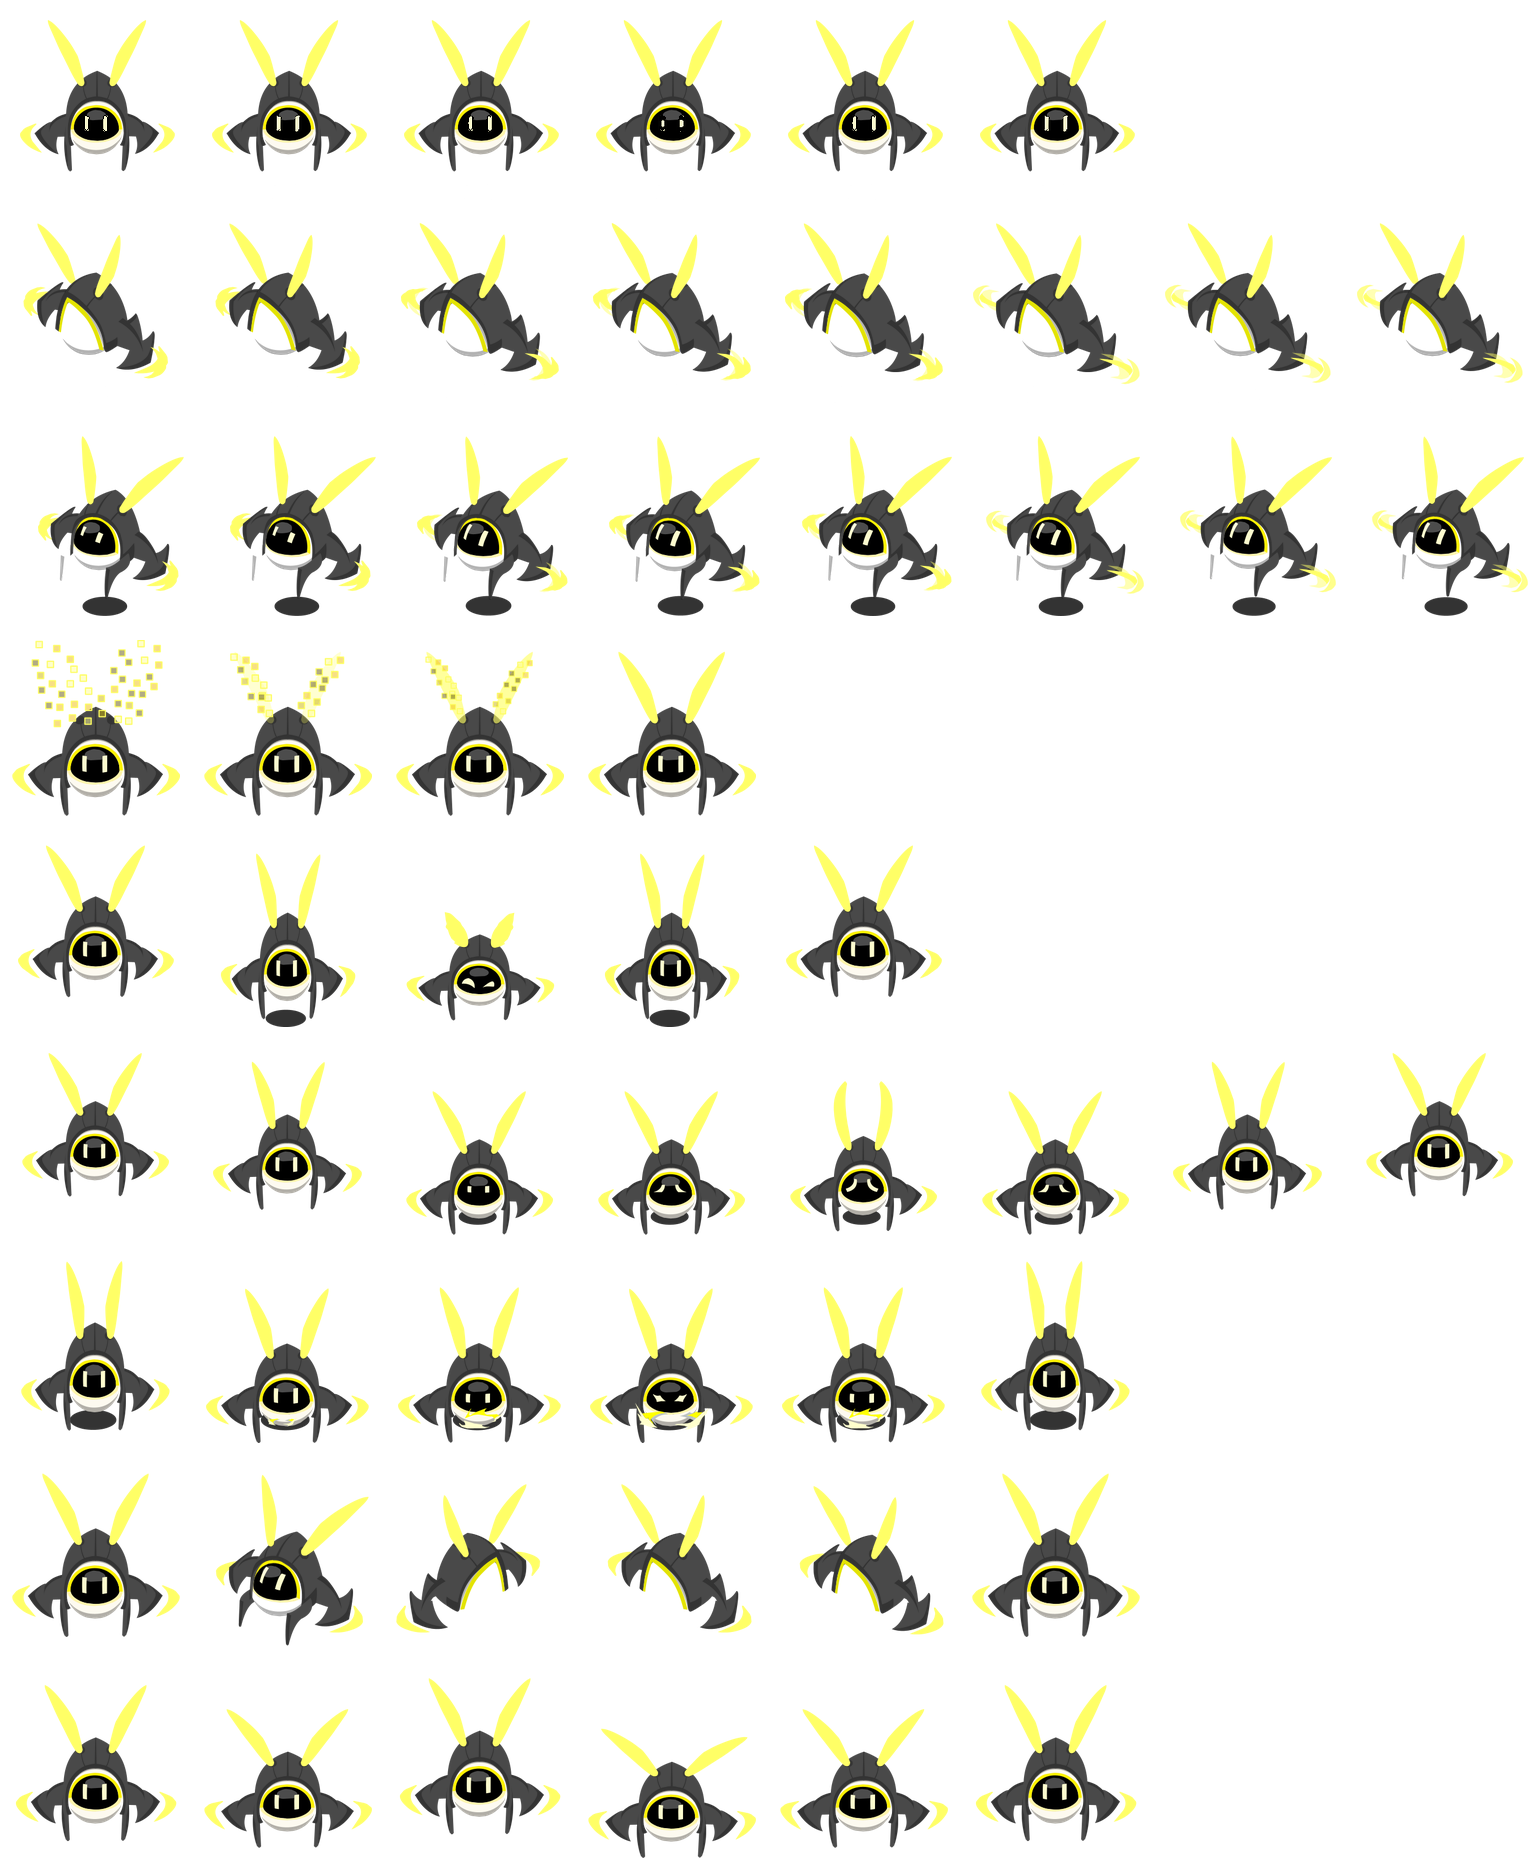
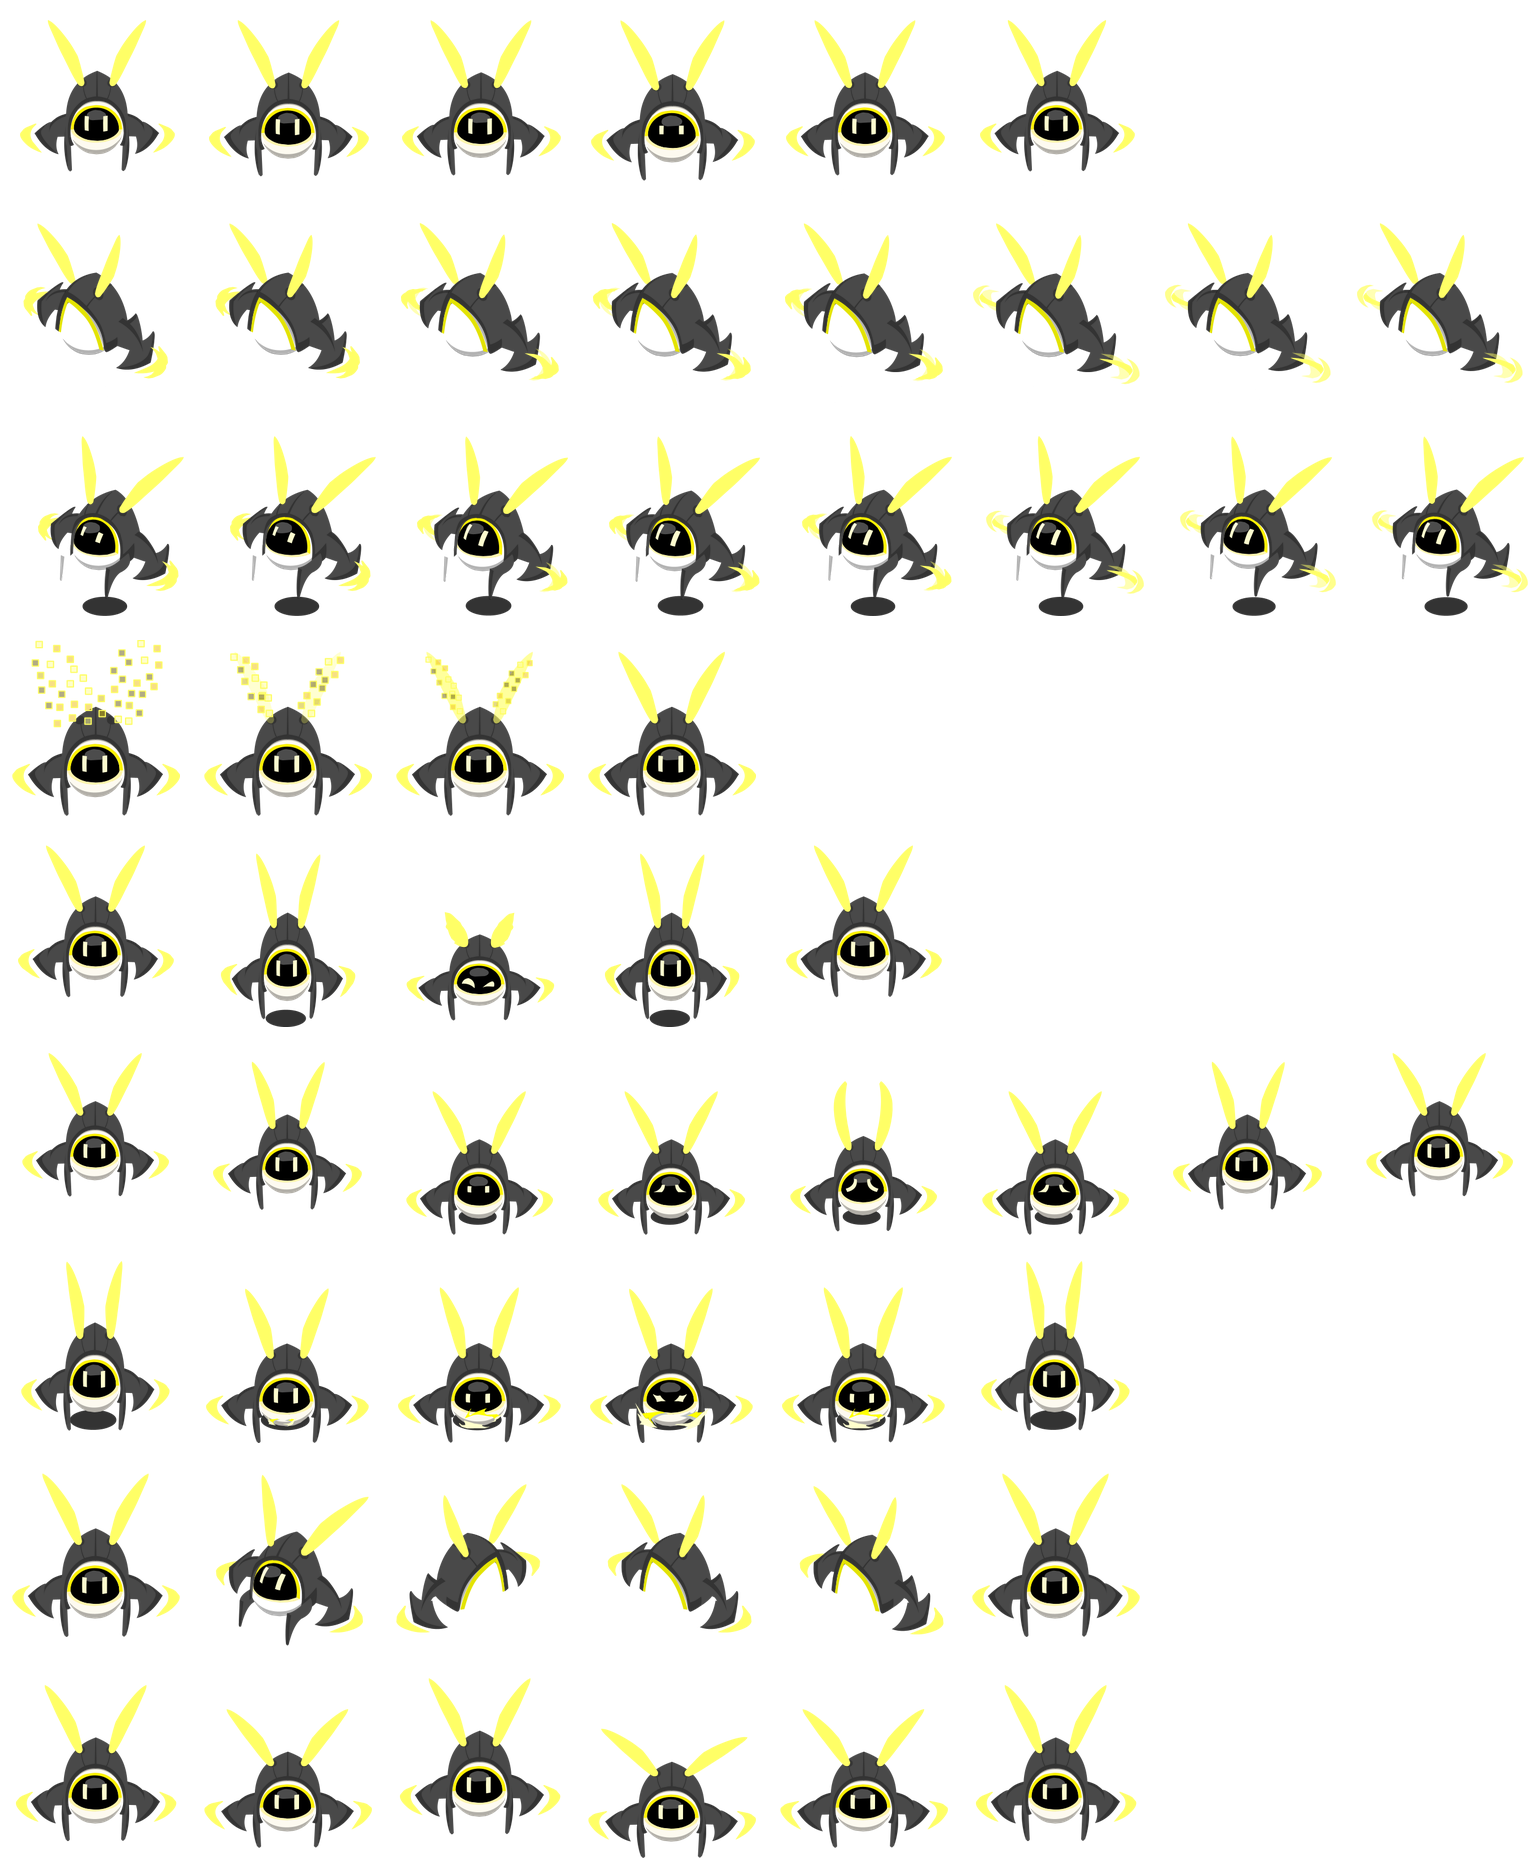
Restore native idle frames for every NoNo variant

Changed region(s): [[0.125, 0.0, 0.625, 0.0929]]

diff --git a/index.html b/index.html
@@ -25,4 +25,4 @@
     <section class="install" id="ram-install"><details><summary>安装说明</summary><div class="install-content"><ol><li><span>1</span><div><h3>解压宠物包</h3><p>得到一个含有 <code>pet.json</code> 和 <code>spritesheet.png</code> 的拉姆文件夹。</p></div></li><li><span>2</span><div><h3>放进 Codex 的 pets 文件夹</h3><p>macOS / Linux：<code>~/.codex/pets/</code><br>Windows：<code>%USERPROFILE%\.codex\pets\</code><br>若设置过 <code>CODEX_HOME</code>，请使用它下面的 <code>pets</code> 文件夹。</p></div></li><li><span>3</span><div><h3>在设置里选中它</h3><p>打开 Codex 的「设置 → Pets / 宠物」，刷新列表后选择拉姆。输入 <code>/pet</code> 唤出它。</p></div></li></ol><button class="copy-button" id="ram-copy-prompt">复制安装提示词</button><p class="install-note">也可以将下载的精灵图上传到支持「Upload pet」的宠物界面。<a href="https://learn.chatgpt.com/docs/pets" target="_blank" rel="noreferrer">官方说明 ↗</a></p></div></details></section>
 </div><div id="nono-panel" role="tabpanel" aria-labelledby="tab-nono" hidden><section class="workbench" aria-label="超能NoNo宠物预览"><div class="preview-panel" id="nono-preview-panel"><div class="preview-top"><span class="caps">安装效果预览</span><button id="nono-background" class="small-button" aria-label="切换深浅预览背景">◐ <span>深色背景</span></button></div><div class="pet-stage"><span class="pet-label" id="nono-pet-label">超能 NoNo</span><canvas id="nono-pet" width="576" height="624" role="img" aria-label="超能NoNo动画预览"></canvas></div><div class="preview-bottom"><span><i class="live-dot"></i><span id="nono-state-label">待机中</span></span><button id="nono-pause" class="small-button" aria-pressed="false">Ⅱ 暂停动画</button></div></div>
 <div class="controls nono-controls"><div class="section-heading"><h2>形态</h2></div><div class="forms nono-forms" role="group" aria-label="NoNo版本"><button class="form" data-form="nono-normal" aria-pressed="false"><strong>普通 NoNo</strong></button><button class="form active" data-form="nono" aria-pressed="true"><strong>超能 NoNo</strong></button><button class="form" data-form="nono-annual" aria-pressed="false"><strong>至尊 NoNo</strong></button></div><div class="divider"></div><div id="nono-colors-section"><div class="section-heading"><h2>颜色</h2></div><div class="colors" id="nono-colors" role="group" aria-label="NoNo颜色"></div><div class="divider"></div></div><div class="section-heading"><h2>动作</h2><a class="action-library-link" href="ram-library.html">查看原动作 ↗</a></div><div class="states" role="group" aria-label="预览动作"><button data-state="idle" class="selected" aria-pressed="true">待命</button><button data-state="waving" aria-pressed="false">开机</button><button data-state="jumping" aria-pressed="false">惊讶</button><button data-state="running" aria-pressed="false">玩魔方</button><button data-state="waiting" aria-pressed="false">充电</button><button data-state="review" aria-pressed="false">开心</button><button data-state="running-left" aria-pressed="false">向左</button><button data-state="running-right" aria-pressed="false">向右</button><button data-state="failed" aria-pressed="false">悲哀</button></div><p class="hint" style="margin-top:12px">动作播放三遍后回到待机，点击动作可重播。</p><div class="download-area"><div class="install-actions"><button class="command-action" id="nono-copy-command" aria-label="复制安装命令"><span class="command-header"><span class="terminal-title">命令安装 </span><span class="copy-feedback"><span class="copy-status" role="status" aria-live="polite">复制</span><svg class="copy-icon" viewBox="0 0 20 20" width="16" height="16" fill="none" stroke="currentColor" stroke-width="1.4" aria-hidden="true"><rect x="7" y="7" width="10" height="11" rx="2"/><path d="M12 4V3a1 1 0 0 0-1-1H4a2 2 0 0 0-2 2v8a1 1 0 0 0 1 1h1"/></svg></span></span><span class="command-line"><span class="shell-prompt" aria-hidden="true">$</span><code id="nono-install-command">npx --yes github:mli55/taomi-codex-pets --pet nono</code></span></button><button class="download" id="nono-download" disabled><span>↓</span> <span>下载 ZIP</span> </button></div><div class="download-meta"><span></span><button class="text-button" id="nono-download-png" disabled>下载 PNG</button></div><p id="nono-download-status" class="download-status" role="status"></p></div></div></section>    <section class="install" id="nono-install"><details><summary>安装说明</summary><div class="install-content"><ol><li><span>1</span><div><h3>解压宠物包</h3><p>得到一个含有 <code>pet.json</code> 和 <code>spritesheet.png</code> 的NoNo文件夹。</p></div></li><li><span>2</span><div><h3>放进 Codex 的 pets 文件夹</h3><p>macOS / Linux：<code>~/.codex/pets/</code><br>Windows：<code>%USERPROFILE%\.codex\pets\</code><br>若设置过 <code>CODEX_HOME</code>，请使用它下面的 <code>pets</code> 文件夹。</p></div></li><li><span>3</span><div><h3>在设置里选中它</h3><p>打开 Codex 的「设置 → Pets / 宠物」，刷新列表后选择NoNo。输入 <code>/pet</code> 唤出它。</p></div></li></ol><button class="copy-button" id="nono-copy-prompt">复制安装提示词</button><p class="install-note">也可以将下载的精灵图上传到支持「Upload pet」的宠物界面。<a href="https://learn.chatgpt.com/docs/pets" target="_blank" rel="noreferrer">官方说明 ↗</a></p></div></details></section>
-</div></main><footer><p>非官方项目 · 游戏素材版权归原权利方所有</p></footer><script src="pet-playback.js?v=animation-review2" defer></script><script src="ram.js?v=animation-review2" defer></script><script src="nono.js?v=nono-native-idle1" defer></script><script src="app.js" defer></script></body></html>
+</div></main><footer><p>非官方项目 · 游戏素材版权归原权利方所有</p></footer><script src="pet-playback.js?v=animation-review2" defer></script><script src="ram.js?v=animation-review2" defer></script><script src="nono.js?v=all-nono-native-idle1" defer></script><script src="app.js" defer></script></body></html>

diff --git a/nono.js b/nono.js
@@ -59,7 +59,7 @@ async function loadForm(next){
   try{
     let images=imageCache.get(assetKey);
     if(!images){
-      images=await Promise.all([assetKey+'.png'].map(async file=>{const image=new Image();image.src='assets/'+file+'?v=nono-native-idle1';await image.decode();if(image.naturalWidth!==1536||image.naturalHeight!==1872)throw Error('宠物图集尺寸不正确');return image;}));
+      images=await Promise.all([assetKey+'.png'].map(async file=>{const image=new Image();image.src='assets/'+file+'?v=all-nono-native-idle1';await image.decode();if(image.naturalWidth!==1536||image.naturalHeight!==1872)throw Error('宠物图集尺寸不正确');return image;}));
       imageCache.set(assetKey,images);
     }
     if(request!==generation)return;
